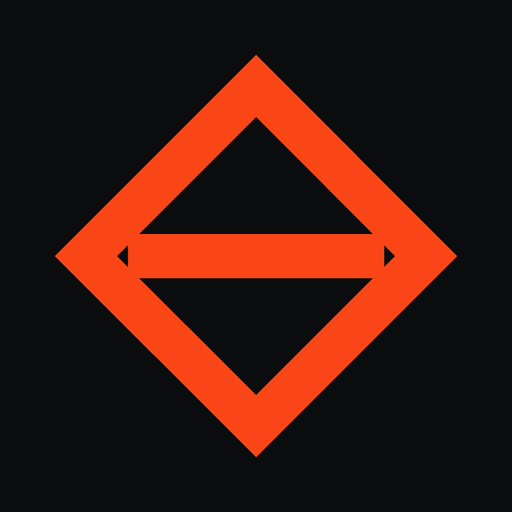
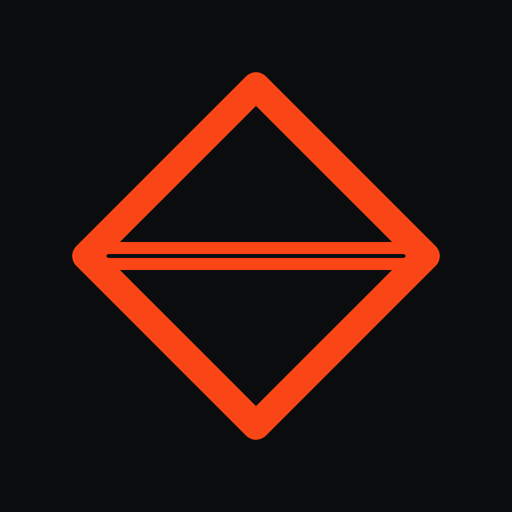
Brand: refactor the mark for display sizes (A2-R1)
The mark was drawn once at favicon scale and scaled up, which read
chunky at display sizes: 44-unit stroke, butt-capped bar leaving notch
artifacts at the diamond's inner corners. This cuts a proper display
master while leaving the small (favicon) master untouched:

- stroke 44 -> 28; the bar becomes an equatorial trench (two 12-unit
  rails, 4-unit groove) that closes into the walls at the tips
- rounded outer tips (round joins), interior corners stay sharp
- favicon + header mark pick up the round join only (invisible at
  16-24px, keeps the family coherent)
- add light + transparent variants and a PNG export set
  (1024/512/256/128 dark + transparent, 1024/512 light)
- add og:image pointing at brand/rasputin-mark-512.png

diff --git a/layouts/baseof.html b/layouts/baseof.html
@@ -9,6 +9,7 @@
 <meta property="og:description" content="{{ with .Description }}{{ . }}{{ else }}{{ site.Params.description }}{{ end }}">
 <meta property="og:type" content="{{ if .IsPage }}article{{ else }}website{{ end }}">
 <meta property="og:url" content="{{ .Permalink }}">
+<meta property="og:image" content="{{ "brand/rasputin-mark-512.png" | absURL }}">
 {{ if .Params.noindex }}<meta name="robots" content="noindex">
 {{ end -}}
 <link rel="icon" href="{{ "favicon.svg" | relURL }}" type="image/svg+xml">
@@ -29,7 +30,7 @@
 <header class="site-head">
   <nav class="wrap">
     <a class="brand" href="{{ "/" | relURL }}">
-      <svg class="mark" width="18" height="18" viewBox="0 0 24 24" aria-hidden="true"><path d="M12 1 23 12 12 23 1 12Z" fill="none" stroke="currentColor" stroke-width="2.4"/><path d="M4 12h16" stroke="currentColor" stroke-width="2.4"/></svg>
+      <svg class="mark" width="18" height="18" viewBox="0 0 24 24" aria-hidden="true"><path d="M12 1 23 12 12 23 1 12Z" fill="none" stroke="currentColor" stroke-width="2.4" stroke-linejoin="round"/><path d="M4 12h16" stroke="currentColor" stroke-width="2.4"/></svg>
       RASPUTIN
     </a>
     <div class="nav-links">